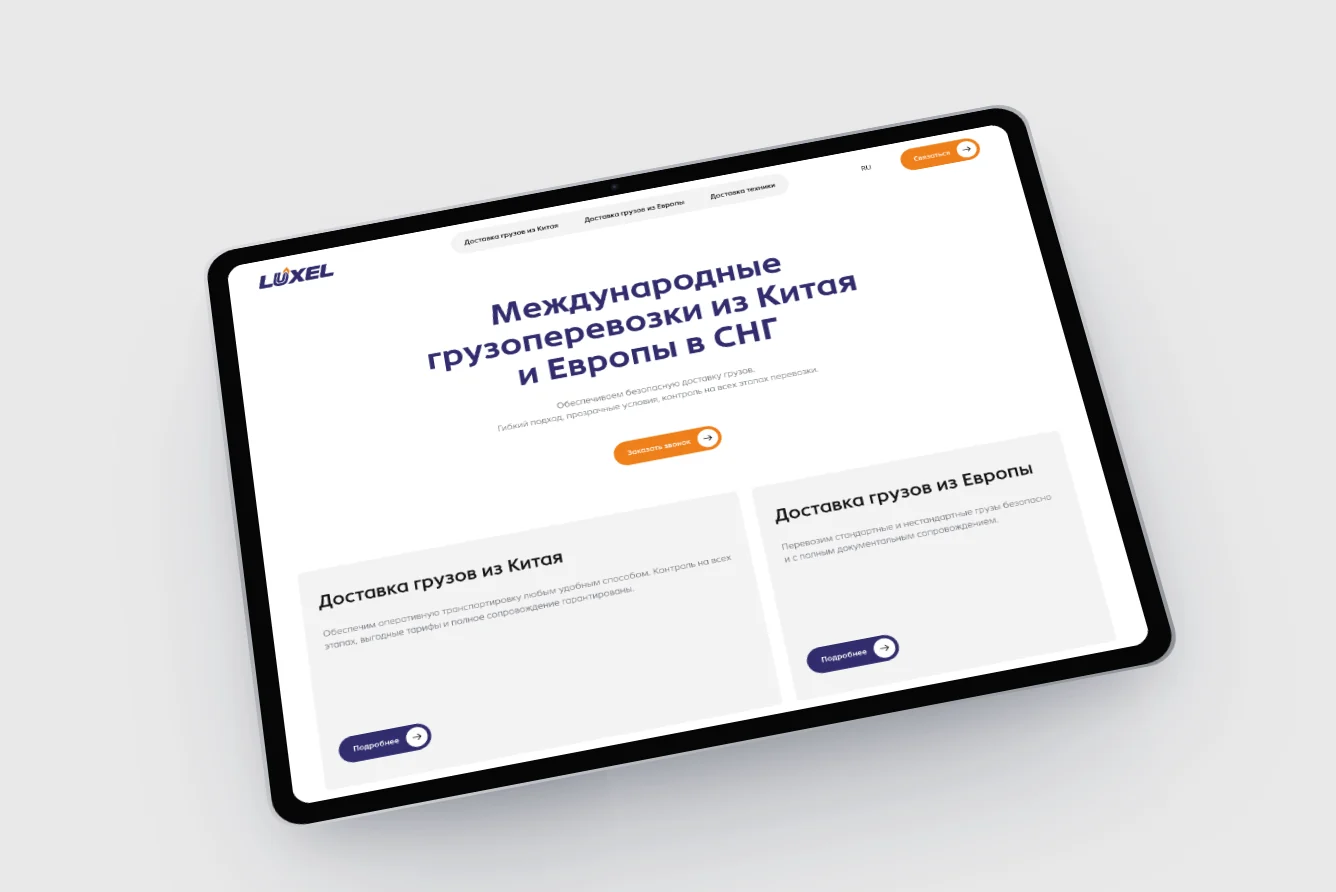
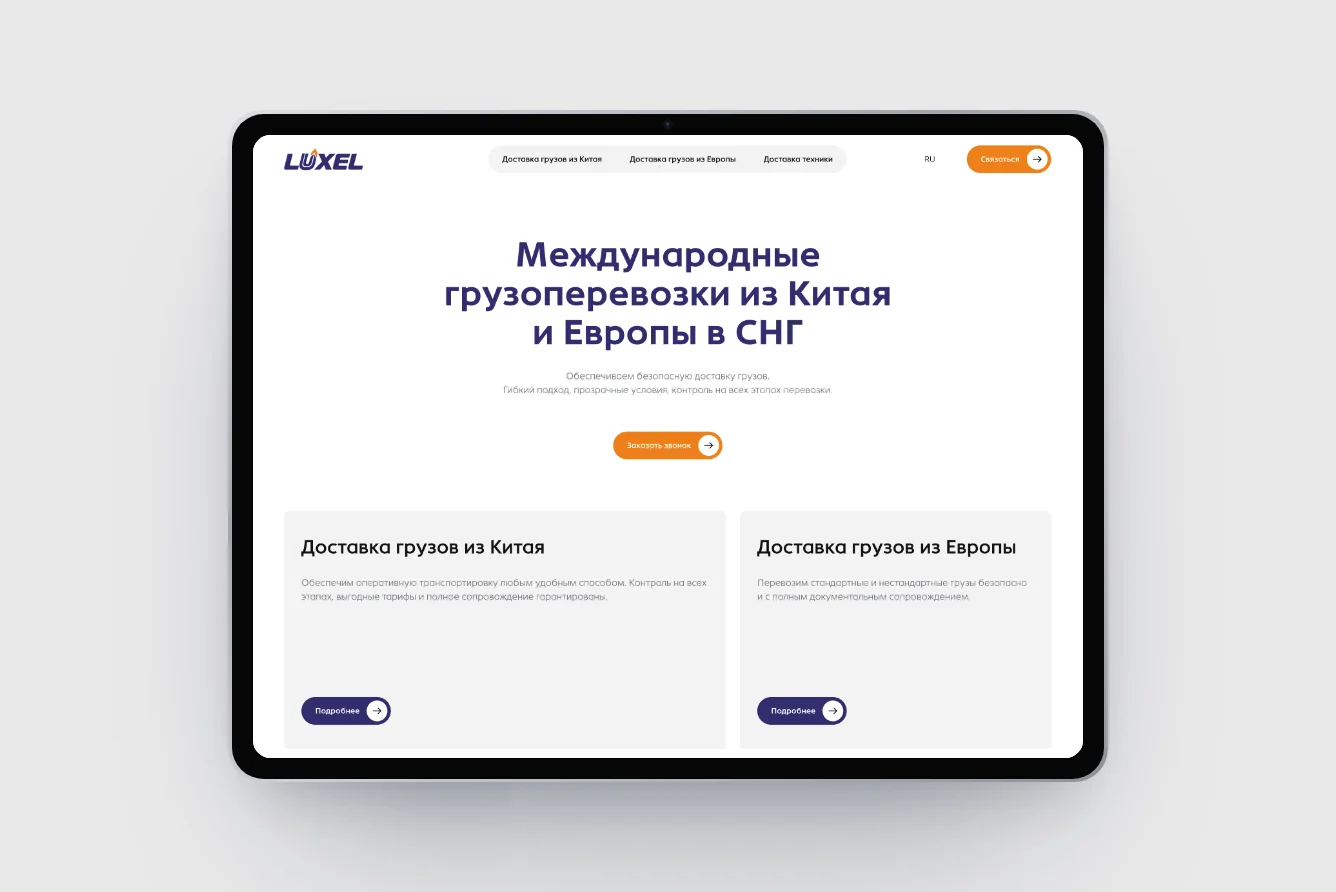
Luxel ровно, синие теги в кейсах

Changed region(s): [[0.1534, 0.1211, 0.89, 0.9383], [0.7058, 0.5146, 0.7672, 0.5751]]

diff --git a/taskee.html b/taskee.html
@@ -67,7 +67,7 @@
         </ol>
       </nav>
       <div class="case-hero__inner">
-        <ul class="tags" aria-label="Теги проекта"><li class="tag tag--blue">SaaS</li><li class="tag tag--purple">Веб + мобайл</li><li class="tag tag--orange"><span class="nowrap">Дизайн-система</span></li><li class="tag tag--orange">Компонентная архитектура</li></ul>
+        <ul class="tags" aria-label="Теги проекта"><li class="tag tag--blue">SaaS</li><li class="tag tag--blue">Веб + мобайл</li><li class="tag tag--blue"><span class="nowrap">Дизайн-система</span></li><li class="tag tag--blue">Компонентная архитектура</li></ul>
         <div class="case-hero__text">
           <h1 id="case-title">Taskee: из&nbsp;набора экранов в&nbsp;<span class="nowrap">дизайн-систему</span>, не&nbsp;останавливая разработку</h1>
           <p class="case-hero__lead">Taskee вырос из&nbsp;внутреннего инструмента студии Toimi в&nbsp;отдельный SaaS для&nbsp;задач и&nbsp;проектов. Визуальная концепция и&nbsp;<span class="nowrap">UI-kit</span> уже&nbsp;существовали, но&nbsp;экраны держались на&nbsp;группах слоёв, а&nbsp;не&nbsp;на&nbsp;компонентах. Я&nbsp;пересобрала интерфейс в&nbsp;компонентную систему на&nbsp;5&nbsp;брейкпоинтах параллельно с&nbsp;живой разработкой.</p>

diff --git a/rower-rent.html b/rower-rent.html
@@ -67,7 +67,7 @@
         </ol>
       </nav>
       <div class="case-hero__inner">
-        <ul class="tags" aria-label="Теги проекта"><li class="tag tag--blue">CRM</li><li class="tag tag--green">Работа с&nbsp;ограничениями бизнеса</li><li class="tag tag--orange"><span class="nowrap">Дизайн-система</span></li><li class="tag tag--green"><span class="nowrap">Соло-дизайнер</span></li></ul>
+        <ul class="tags" aria-label="Теги проекта"><li class="tag tag--blue">CRM</li><li class="tag tag--blue">Работа с&nbsp;ограничениями бизнеса</li><li class="tag tag--blue"><span class="nowrap">Дизайн-система</span></li><li class="tag tag--blue"><span class="nowrap">Соло-дизайнер</span></li></ul>
         <div class="case-hero__text">
           <h1 id="case-title">Rower Rent CRM: от&nbsp;Google Таблиц к&nbsp;продукту, которым пользуются</h1>
           <p class="case-hero__lead">Сеть проката велосипедов вела всю работу в&nbsp;Google Таблицах, а&nbsp;от&nbsp;готовых CRM команда уже&nbsp;однажды отказалась <span class="nowrap">из-за</span> сложности. Я&nbsp;была единственным дизайнером в&nbsp;проекте и&nbsp;спроектировала CRM, которая сохраняет привычную логику таблиц и&nbsp;убирает из&nbsp;неё ручной труд.</p>

diff --git a/nobetek.html b/nobetek.html
@@ -67,7 +67,7 @@
         </ol>
       </nav>
       <div class="case-hero__inner">
-        <ul class="tags" aria-label="Теги проекта"><li class="tag tag--blue"><span class="nowrap">E-commerce</span></li><li class="tag tag--blue">B2B и&nbsp;B2C</li><li class="tag tag--purple"><span class="nowrap">Mobile-first</span></li><li class="tag tag--orange"><span class="nowrap">UX-аналитика</span></li></ul>
+        <ul class="tags" aria-label="Теги проекта"><li class="tag tag--blue"><span class="nowrap">E-commerce</span></li><li class="tag tag--blue">B2B и&nbsp;B2C</li><li class="tag tag--blue"><span class="nowrap">Mobile-first</span></li><li class="tag tag--blue"><span class="nowrap">UX-аналитика</span></li></ul>
         <div class="case-hero__text">
           <h1 id="case-title">Нобетек: из&nbsp;каталога в&nbsp;инструмент, который помогает принять решение</h1>
           <p class="case-hero__lead">Сайт завода тротуарной плитки работал как&nbsp;каталог артикулов: не&nbsp;отвечал на&nbsp;вопросы покупателей и&nbsp;не&nbsp;вызывал доверия. Мы&nbsp;с&nbsp;другим дизайнером спроектировали 22&nbsp;страницы с&nbsp;нуля, и&nbsp;каждое ключевое решение опирается на&nbsp;поведение, которое нашли в&nbsp;аналитике.</p>

diff --git a/brealit.html b/brealit.html
@@ -67,7 +67,7 @@
         </ol>
       </nav>
       <div class="case-hero__inner">
-        <ul class="tags" aria-label="Теги проекта"><li class="tag tag--blue">B2B</li><li class="tag tag--blue">Корпоративный сайт</li><li class="tag tag--green">Жёсткий дедлайн</li><li class="tag tag--green">Ведущий дизайнер</li></ul>
+        <ul class="tags" aria-label="Теги проекта"><li class="tag tag--blue">B2B</li><li class="tag tag--blue">Корпоративный сайт</li><li class="tag tag--blue">Жёсткий дедлайн</li><li class="tag tag--blue">Ведущий дизайнер</li></ul>
         <div class="case-hero__text">
           <h1 id="case-title">Brealit: первый релиз <span class="nowrap">B2B-сайта</span> точно к&nbsp;дате конференции</h1>
           <p class="case-hero__lead">Компания пришла за&nbsp;ребрендингом и&nbsp;новым сайтом. За&nbsp;две недели до&nbsp;клиентской конференции меня экстренно вернули на&nbsp;проект, и&nbsp;оказалось, что&nbsp;макеты далеки от&nbsp;готовности. Я&nbsp;пересобрала объём под&nbsp;реальный срок, и&nbsp;первый релиз вышел к&nbsp;дате без&nbsp;переносов.</p>

diff --git a/index.html b/index.html
@@ -123,7 +123,7 @@
           <li class="work-tile"><img src="assets/other/shuhari.webp?v=e00906f9" alt="Shu-Ha-Ri: мобильное приложение, трекер привычек" loading="lazy" decoding="async" width="874" height="708"></li>
           <li class="work-tile"><img src="assets/other/alivebe.webp?v=6894a929" alt="Alive Be: виджеты в стиле фитнес-трекера" loading="lazy" decoding="async" width="874" height="708"></li>
           <li class="work-tile"><img src="assets/other/pico.webp?v=e365e60b" alt="PICO: мобильное приложение завода труб — главная, каталог и экран покупателя" loading="lazy" decoding="async" width="1336" height="892"></li>
-          <li class="work-tile"><img src="assets/other/luxel.webp?v=ee58194f" alt="Luxel: сайт логистической компании на планшете" loading="lazy" decoding="async" width="1336" height="892"></li>
+          <li class="work-tile"><img src="assets/other/luxel.webp?v=b7edc5db" alt="Luxel: сайт логистической компании на планшете" loading="lazy" decoding="async" width="1336" height="892"></li>
       </ul>
     </section>
     <section class="how" id="approach" aria-labelledby="approach-title">
